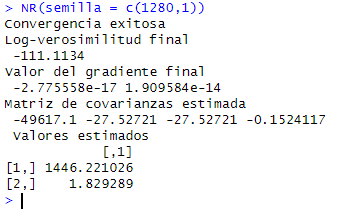
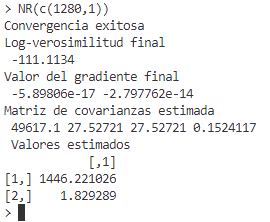
NR con julia

Changed region(s): [[0.0, 0.0, 0.9778, 1.0]]

diff --git a/docs/_posts/2023-02-04-optimizacion-funciones-newton-raphson.md b/docs/_posts/2023-02-04-optimizacion-funciones-newton-raphson.md
@@ -159,8 +159,10 @@ hessiano <- function(params) {
   beta = params[1];
   gama = params[2];
   h11 = n*gama/beta^2 - gama*(gama+1)*(1/beta)^(gama+2)*sum((ti^gama));
-  h12 = -n/beta + (gama*sum((ti^gama)*log(ti)) + (1+gama*log(1/beta))*sum((ti^gama))) / (beta^(gama+1));
-  h22 = -n/gama^2 - (sum((ti^gama)*log(ti)^2) + 2*log(1/beta)*sum((ti^gama)*log(ti)) + log(1/beta)^2*sum((ti^gama)))/(beta^gama);
+  h12 = -n/beta + (gama*sum((ti^gama)*log(ti)) + (1+gama*log(1/beta)) * 
+    sum((ti^gama))) / (beta^(gama+1));
+  h22 = -n/gama^2 - (sum((ti^gama)*log(ti)^2) + 2*log(1/beta) * 
+    sum((ti^gama)*log(ti)) + log(1/beta)^2*sum((ti^gama)))/(beta^gama);
   h = matrix(c(h11,h12,h12,h22),nrow = 2,ncol = 2,byrow = TRUE)
   return(h)
 }
@@ -188,7 +190,7 @@ NR <- function(semilla,niter = 30, tol = 0.0001) {
       cat("Convergencia exitosa\n")
       logv = logv(final);
       grad = score(final);
-      VC = solve(H);
+      VC = -solve(H);
       cat("Log-verosimilitud final\n",logv,"\nValor del gradiente final\n",grad,
           "\nMatriz de covarianzas estimada\n",VC,"\n Valores estimados\n")
       #print(hist)
@@ -201,6 +203,7 @@ NR <- function(semilla,niter = 30, tol = 0.0001) {
       "Se encontraron problemas de convergencia\n",
       "El algoritmo fue detenido");
 }
+NR(c(1280,1))
 {% endhighlight %}
 
 En la siguiente imagen se muestra el resultado del algoritmo.
@@ -237,7 +240,8 @@ START score (params) global (ti, n);
     beta = params[1];
     gama = params[2];
     s1 = -n#gama/beta + gama#(1/beta)##(gama+1)#sum((ti##gama));
-    s2 = n#(1/gama-log(beta)) + sum(log(ti)) -(sum((ti##gama)#log(ti)) + log(1/beta)#sum((ti##gama)))/(beta##gama);
+    s2 = n#(1/gama-log(beta)) + sum(log(ti)) -(sum((ti##gama) # log(ti)) + 
+      log(1/beta)#sum((ti##gama)))/(beta##gama);
     s = s1 // s2;
     RETURN(s);
 FINISH;
@@ -245,8 +249,10 @@ START hessiano(params) GLOBAL (ti, n);
         beta = params[1];
         gama = params[2];
         h11 = n#gama/beta##2 - gama#(gama+1)#(1/beta)##(gama+2)#sum((ti##gama));
-        h12 = -n/beta + (gama#sum((ti##gama)#log(ti)) + (1+gama#log(1/beta))#sum((ti##gama))) / (beta##(gama+1));
-        h22 = -n/gama##2 - (sum((ti##gama)#log(ti)##2) + 2#log(1/beta)#sum((ti##gama)#log(ti)) + log(1/beta)##2#sum((ti##gama)))/(beta##gama);
+        h12 = -n/beta + (gama#sum((ti##gama)#log(ti)) + (1+gama#log(1/beta)) # 
+          sum((ti##gama))) / (beta##(gama+1));
+        h22 = -n/gama##2 - (sum((ti##gama)#log(ti)##2) + 2#log(1/beta) # 
+          sum((ti##gama)#log(ti)) + log(1/beta)##2#sum((ti##gama)))/(beta##gama);
         h = ( h11 || h12) // (h12 || h22);
         RETURN (h);
     FINISH;
@@ -282,7 +288,8 @@ START NR(semilla) GLOBAL (ti, n, niter, tol);
                 VC = INV(H);
                 MATTRIB VC LABEL = "Matriz de covarianzas estimada";
                 PRINT VC;
-                MATTRIB history COLNAME = {"Iteración","Distancia","Beta","Gama"} LABEL = "Iteración";
+                MATTRIB history COLNAME = {"Iteración","Distancia","Beta","Gama"} 
+                  LABEL = "Iteración";
                 PRINT history;
                 return;
             END;
@@ -309,6 +316,93 @@ quit;
 La siguiente imagen muestra el resultado obtenido.
 
 ![Resultado del algoritmo en SAS](/assets/nr_sas.png)
+
+
+## Ejemplo con Julia
+
+Para optimizar una función con Julia con el algoritmo Newton-Raphson, primero se debe definir las funciones auxiliares y posteriormente se calculan los nuevos valores de forma iterativa.
+
+{% highlight julia %}
+# Datos
+ti = [283,361,515,638,854,1024,1030,1045,1767,1777,1856,1951,1964,2884]
+n = length(ti)
+# Función de verosimilitud
+function lvero(params)
+  beta = params[1]
+  gama = params[2]
+  s1 = n*(log(gama) - gama*log(beta))
+  s2 = (gama-1)*sum(log.(ti))
+  s3 = (sum((ti.^gama)))/(beta^gama)
+  s = s1+s2-s3
+  return s
+end
+
+# Función score
+function score(params)
+  b = params[1]
+  g = params[2]
+  s1 = -n*g/b+g*sum(ti.^g)*(1/b)^(g+1)
+  s2 = n*(1/g-log(b))+sum(log.(ti))-(sum(ti.^g.*log.(ti))+log(1/b)*sum(ti.^g))/(b^g)
+  s = [s1,s2]
+  return s
+end
+
+# Matriz hessiana
+function hessiano(params)
+  beta = params[1]
+  gama = params[2]
+  h11 = n*gama/beta^2 - gama*(gama+1)*(1/beta)^(gama+2)*sum((ti.^gama))
+  h12 = -n/beta + (gama*sum((ti.^gama).*log.(ti)) + (1+gama*log(1/beta)) * 
+    sum((ti.^gama))) / (beta^(gama+1))
+  h22 = -n/gama^2 - (sum((ti.^gama).*log.(ti).^2) + 2*log(1/beta) * 
+    sum((ti.^gama).*log.(ti)) + log(1/beta)^2*sum((ti.^gama)))/(beta^gama)
+  h = [[h11,h12] [h12,h22]]
+  return h
+end
+{% endhighlight %}
+
+Para la implementación del algoritmo Newton Raphson, se puede definir una función que reciba como argumentos los valores iniciales.
+
+{% highlight julia %}
+function NR(semilla,niter = 30, tol = 0.0001)
+  inicial = semilla;
+  lvi = lvero(inicial);
+  dist = 1;
+  i = 0;
+  while i <= niter 
+    H = hessiano(inicial);
+    VC = inv(H);
+    S = score(inicial);
+    final = inicial - VC*S;
+    dif = abs.(final-inicial)
+    dist = dif[argmax(dif)]
+    a = final[1];
+    b = final[2];
+    if dist <= tol
+      println("Convergencia exitosa")
+      logv = lvero(final);
+      grad = score(final);
+      VC = -inv(H);
+      println("Log-verosimilitud final\n",logv,"\nValor del gradiente final\n",grad,
+          "\nMatriz de covarianzas estimada\n",VC,"\n Valores estimados\n")
+      return(final);
+    end
+    i = i+1;
+    inicial = final;
+  end
+  println("El algoritmo Newton-Raphson podría no converger\n",
+      "Se encontraron problemas de convergencia\n",
+      "El algoritmo fue detenido");
+end
+
+inicial = [1280,1]
+NR(inicial)
+{% endhighlight %}
+
+En la siguiente imagen se ilustra el resultado del algoritmo.
+
+![Resultado del algoritmo en Julia](/assets/nr_julia.png)
+
 
 ## Referencias
 
